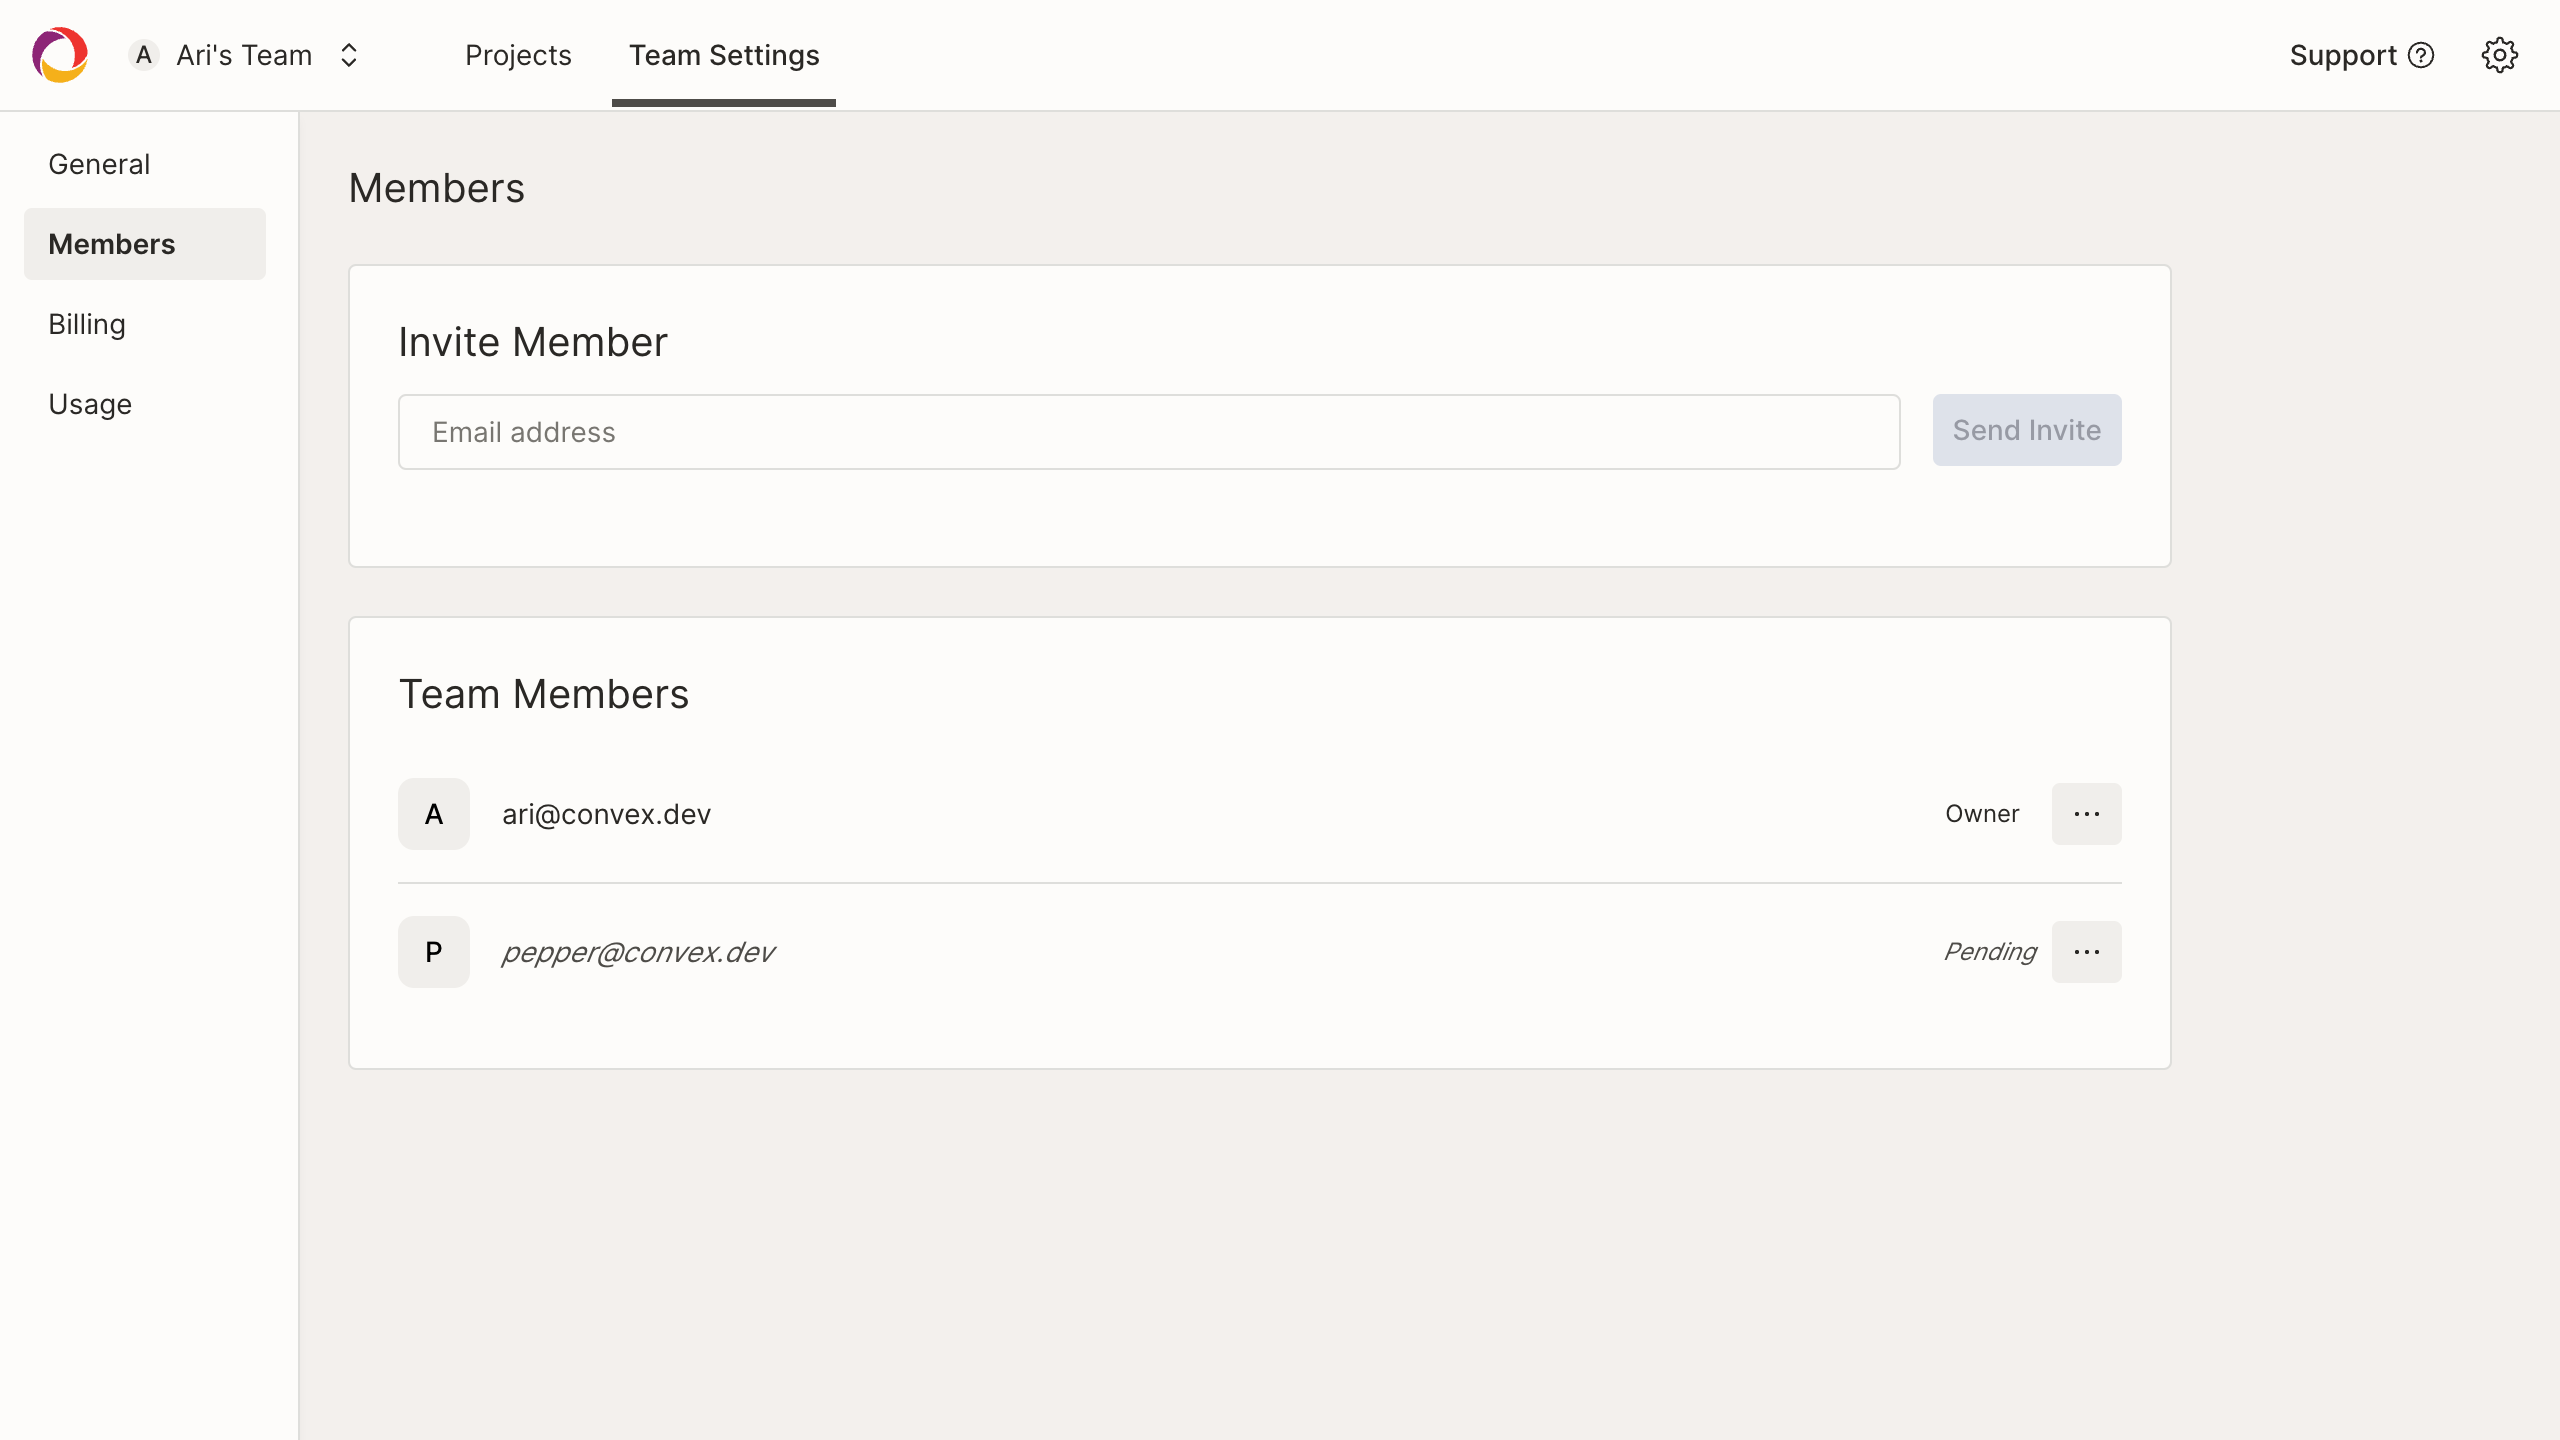
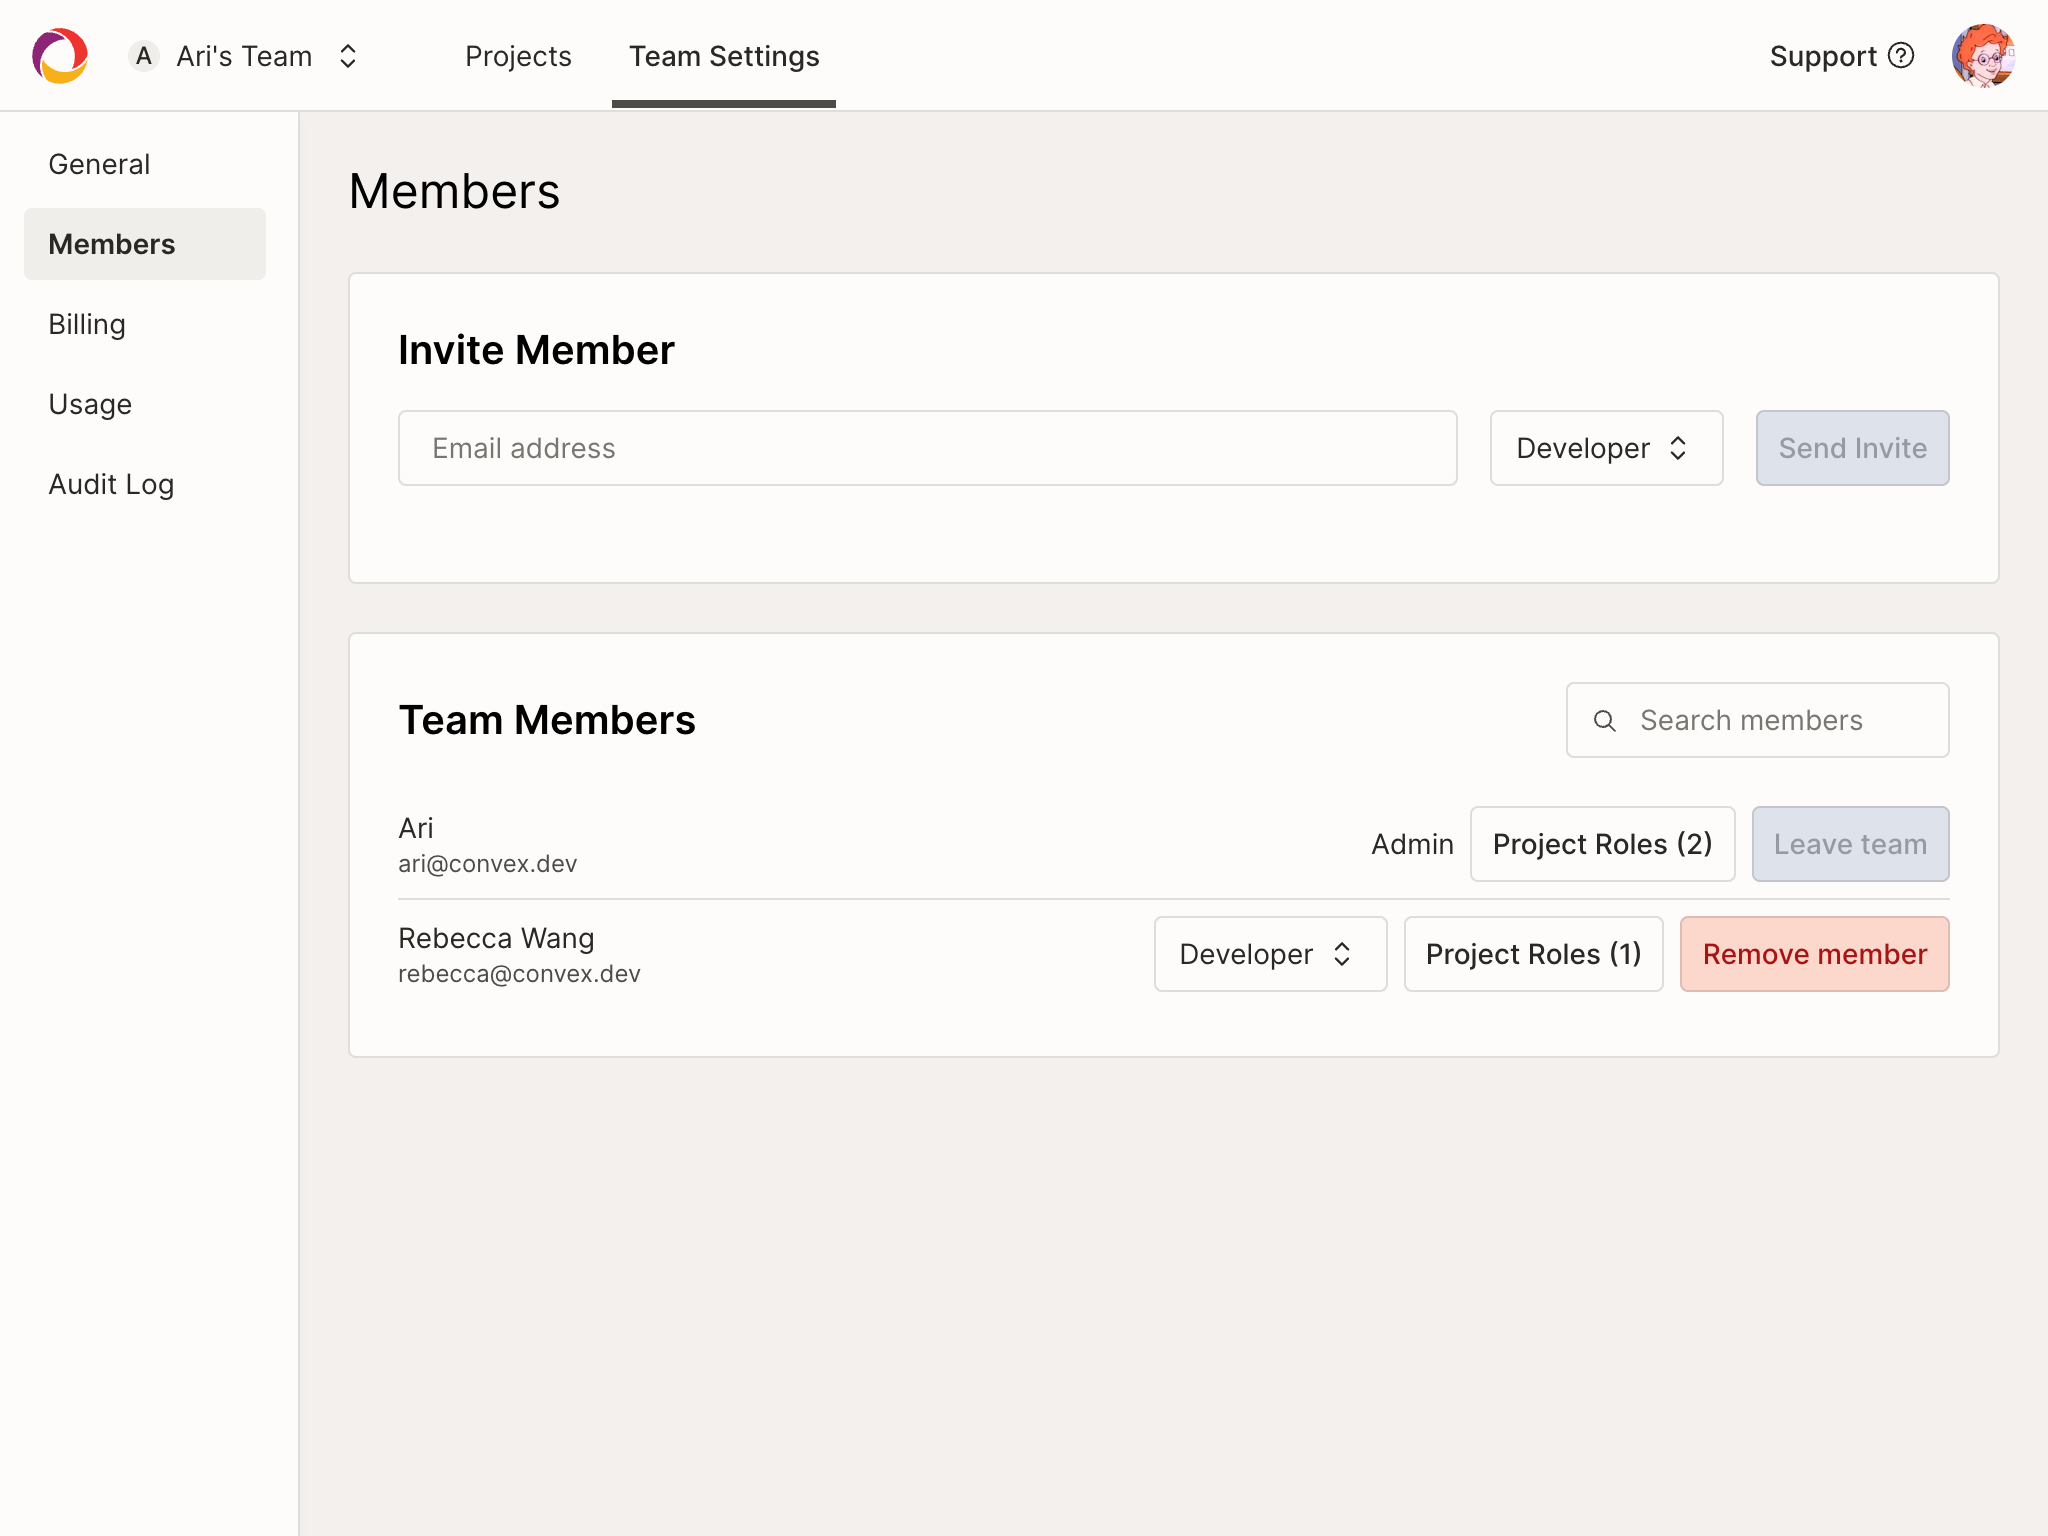
Write the docs for roles (#26878)
GitOrigin-RevId: 04ef1cc0e754f6bc45ac2f1e37ab0e19484c20d3

diff --git a/docs/dashboard/teams.md b/docs/dashboard/teams.md
@@ -16,21 +16,19 @@ The team switcher also allows you to search for projects within a specific team.
 You may change the name of a team or invite new members to a team by clicking on
 the "Team Settings" button located on the top of the project list page.
 
-## Team Settings
-
-### General
+## General
 
 [General page](https://dashboard.convex.dev/team/settings) allows changing the
 team name.
 
 ![General team settings page](/screenshots/teams_general.png)
 
-### Deleting a Team
+## Deleting a Team
 
 Currently, it is not possible to delete a team yourself. If you need to remove a
 team, please contact support@convex.dev for assistance.
 
-### Members
+## Team Members
 
 Use the
 [members settings page](https://dashboard.convex.dev/team/settings/members) to
@@ -38,7 +36,62 @@ invite or remove members from your team.
 
 ![Team members page](/screenshots/teams_members.png)
 
-### Billing
+### Roles and permissions
+
+Convex has two levels of control for managing access to your team, projects, and
+deployments. Team-level roles control what a user can do within the team, while
+project-level permissions control what a user can do within a specific project.
+
+#### Team roles
+
+Your team members can have one of the following roles:
+
+- Admin
+- Developer
+
+The creator of the team is automatically assigned the Admin role. When inviting
+new team members, you may select a role for them. You may also change the role
+of a team member at any time.
+
+Developers can:
+
+- Create new projects and deployments. When a new project is created, the
+  creator of the project is automatically granted the
+  [Project Admin](#project-admins) role for that project.
+- View existing projects, and create development and preview deployments for
+  these projects. Developers may read data from production deployments, but
+  cannot write to them.
+- View the team's usage and billing status (such as previous and upcoming
+  invoices)
+
+Admins can do everything developers can, as well as:
+
+- Invite new team members
+- Remove members from the team
+- Change the role of other team members
+- Manage the team's Convex subscription and billing details.
+- Change the team name and slug
+- Team Admins are also implicitly granted project admin access to all projects
+  within the team. See [Project Admins](#project-admins) for more information.
+
+#### Project Admins
+
+In addition to team roles, you may also grant admin access to individual
+projects by granting team members the "Project Admin" role.
+
+If you are a Project Admin for a given project, you may:
+
+- Update the project name and slug
+- Update the project's default environment variables
+- Delete the project
+- Write to production deployments
+
+You may assign and remove the Project Admin role for multiple projects at the
+same time on the member settings page. To assign or remove the Project Admin
+role for multiple members at the same time, visit the
+[Project Settings](/docs/dashboard/projects.md#project-settings) page instead.
+
+## Billing
 
 Use the [billing page](https://dashboard.convex.dev/team/settings/billing) to
 upgrade your Convex subscription to a higher tier, or manage your existing
@@ -51,7 +104,7 @@ and view your invoices.
 
 ![Team billing page](/screenshots/teams_billing.png)
 
-### Usage
+## Usage
 
 On the [usage page](https://dashboard.convex.dev/team/settings/usage) you can
 see all the resources consumed by your team, and how you're tracking against
@@ -65,7 +118,7 @@ All metrics are available in daily breakdowns:
 
 ![Team usage page graphs](/screenshots/teams_usage_2.png)
 
-### Audit Log
+## Audit Log
 
 <Admonition type="info">
 

diff --git a/docs/dashboard/projects.md b/docs/dashboard/projects.md
@@ -29,6 +29,9 @@ On the [Project Settings page](https://dashboard.convex.dev/project/settings),
 you can:
 
 - Update your project's name and slug.
+- Manage the project's Admins. See
+  [Roles and Permissions](/docs/dashboard/teams.md#roles-and-permissions) for
+  more details.
 - View the amount of [usage metrics](/docs/dashboard/teams.md#usage) your
   project has consumed.
 - Generate deploy keys for your production and preview deployments.
